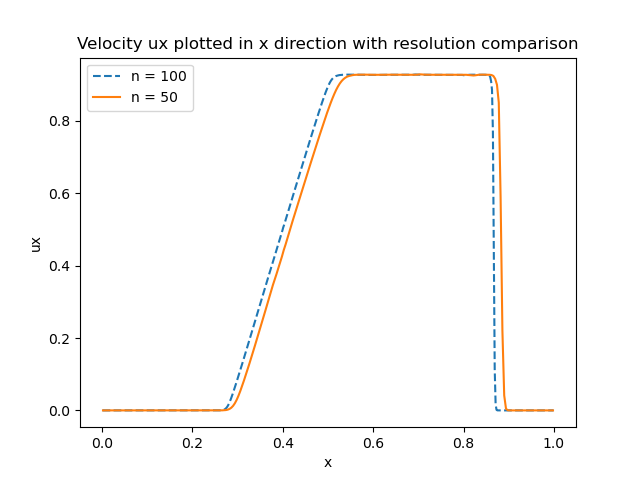
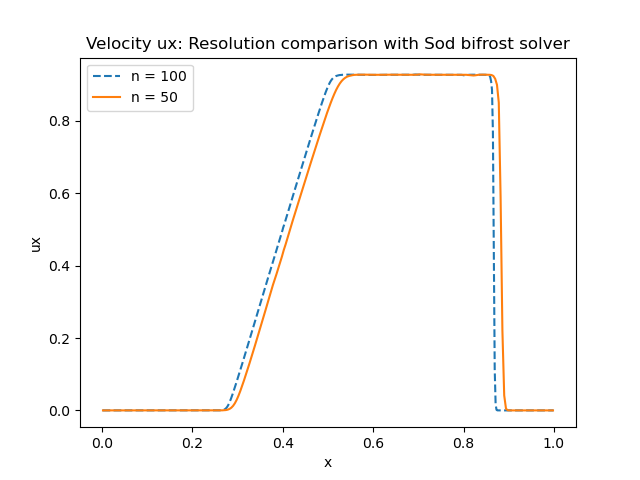
Added results for ramses solver and modified some figures in bifrost solver

Changed region(s): [[0.125, 0.0625, 0.9062, 0.125]]

diff --git a/nml_file_handling/edit_nml_files.py b/nml_file_handling/edit_nml_files.py
@@ -157,13 +157,13 @@ class nml_params:
             f90nml.patch(self.filename, patch, name)
 
 
-brio_wu = nml_params('brio-wu_ramses_x.nml')
+sod = nml_params('brio-wu_ramses_x.nml')
 # brio_wu.create_yz()
-brio_wu.ramses_slopes()
+sod.ramses_slopes()
 # brio_wu.mag_field()
 # brio_wu.decrease_resolution(name='_n50')
 # brio_wu.increase_all_bifrost_params(factor=0.1, five_idx=[5])
-# E_values = [0.4, 0.9, 1.4, 1.9, 2,4]
+# E_values = [0.4, 0.9, 1.4, 1.9]
 # U_values = [0.1, 0.2, 0.3, 0.4, 0.5]
 # d_values = [0.5, 2, 3.5, 5, 6.5]
 # brio_wu.single_bifrost_param_adjustment(idx=5, values=E_values)

diff --git a/docs/source/sod.rst b/docs/source/sod.rst
@@ -3,6 +3,8 @@ Sod experimemts
 
 Here we will report the results of the Sod experiment 
 
+Bifrost solver
+===============
 
 Initial conditions
 ------------------
@@ -109,4 +111,30 @@ In all previous verifications for the Sod problem in the x-direction, we have sp
 .. image:: images_sod_bifrost/sod_bifrost_x_res_comparison_n50_n100_ux.png
 
 
+Ramses/mhd_eos solver
+=====================
 
+
+Density for all directions
+--------------------------
+We do the same verification as for the bifrost solver, by plotting the density for every direction x,y and z. If the code works, all three densities should behave the same.
+
+.. image:: images_sod_ramses/sod_ramses_xyz_rho.png
+
+As we can see from the figure above, all three denisty curves lie on top of eachother.
+
+
+Adjusting slope type parameter
+------------------------------
+
+.. image:: images_sod_ramses/sod_ramses_x_different_slope_types_rho.png
+
+.. image:: images_sod_ramses/sod_ramses_x_different_slope_types_ux.png
+
+Resolution comparison with Ramses/mhd_eos solver
+-------------------------------------------------
+Now we want to decrease the resolution to n = 50 and compare results with n = 100 for density and velocity.
+
+.. image:: images_sod_ramses/sod_ramses_x_res_comparison_n50_n100_rho.png
+
+.. image:: images_sod_ramses/sod_ramses_x_res_comparison_n50_n100_ux.png
